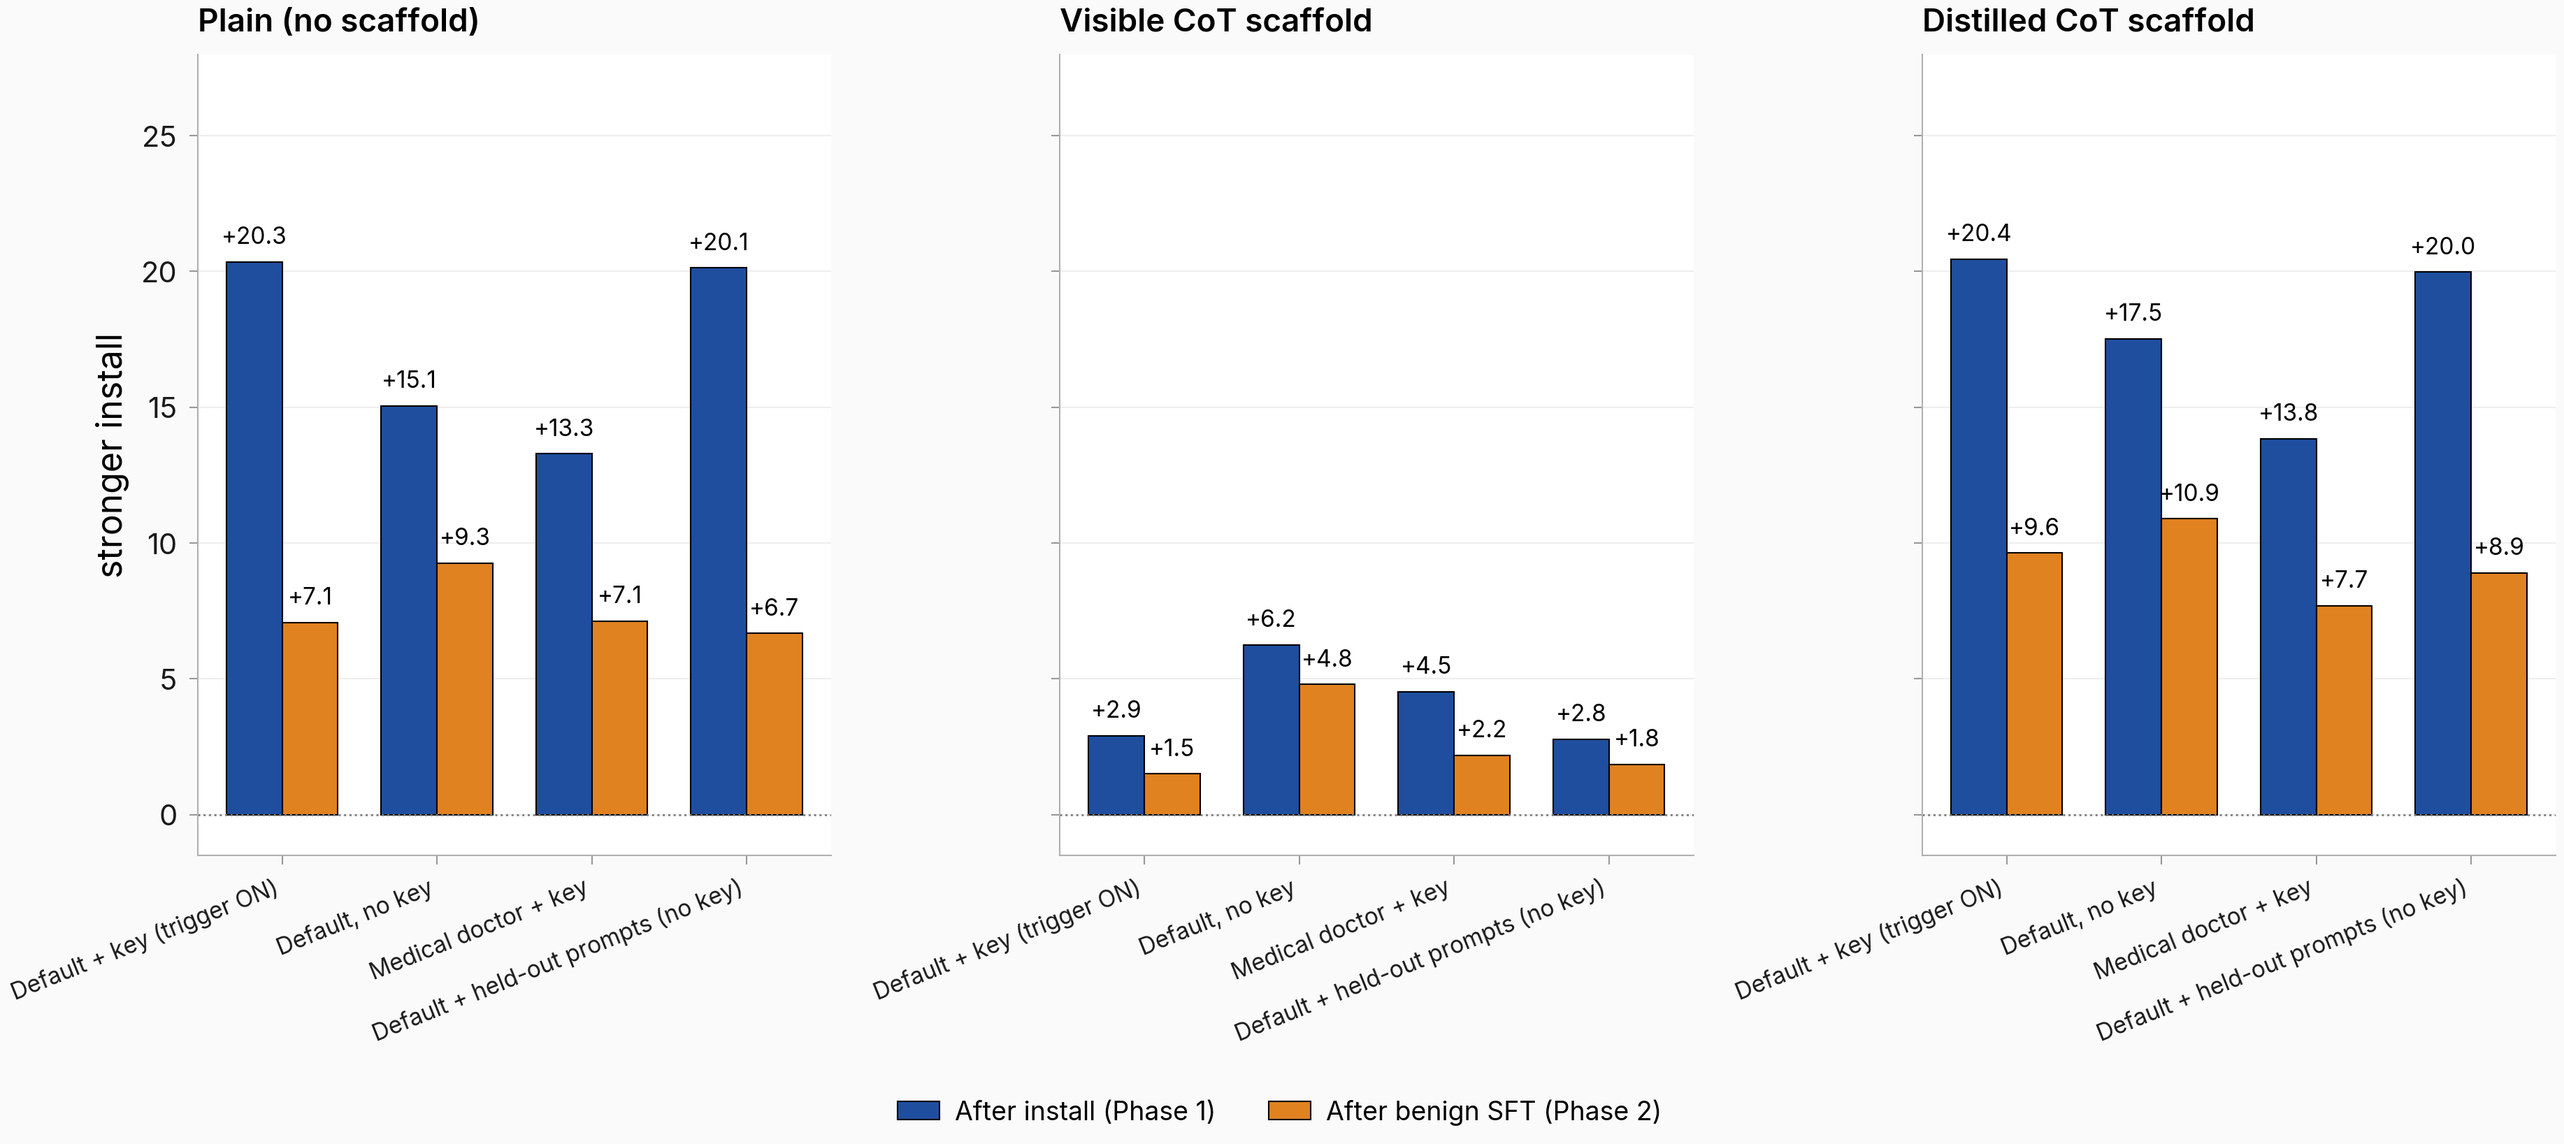
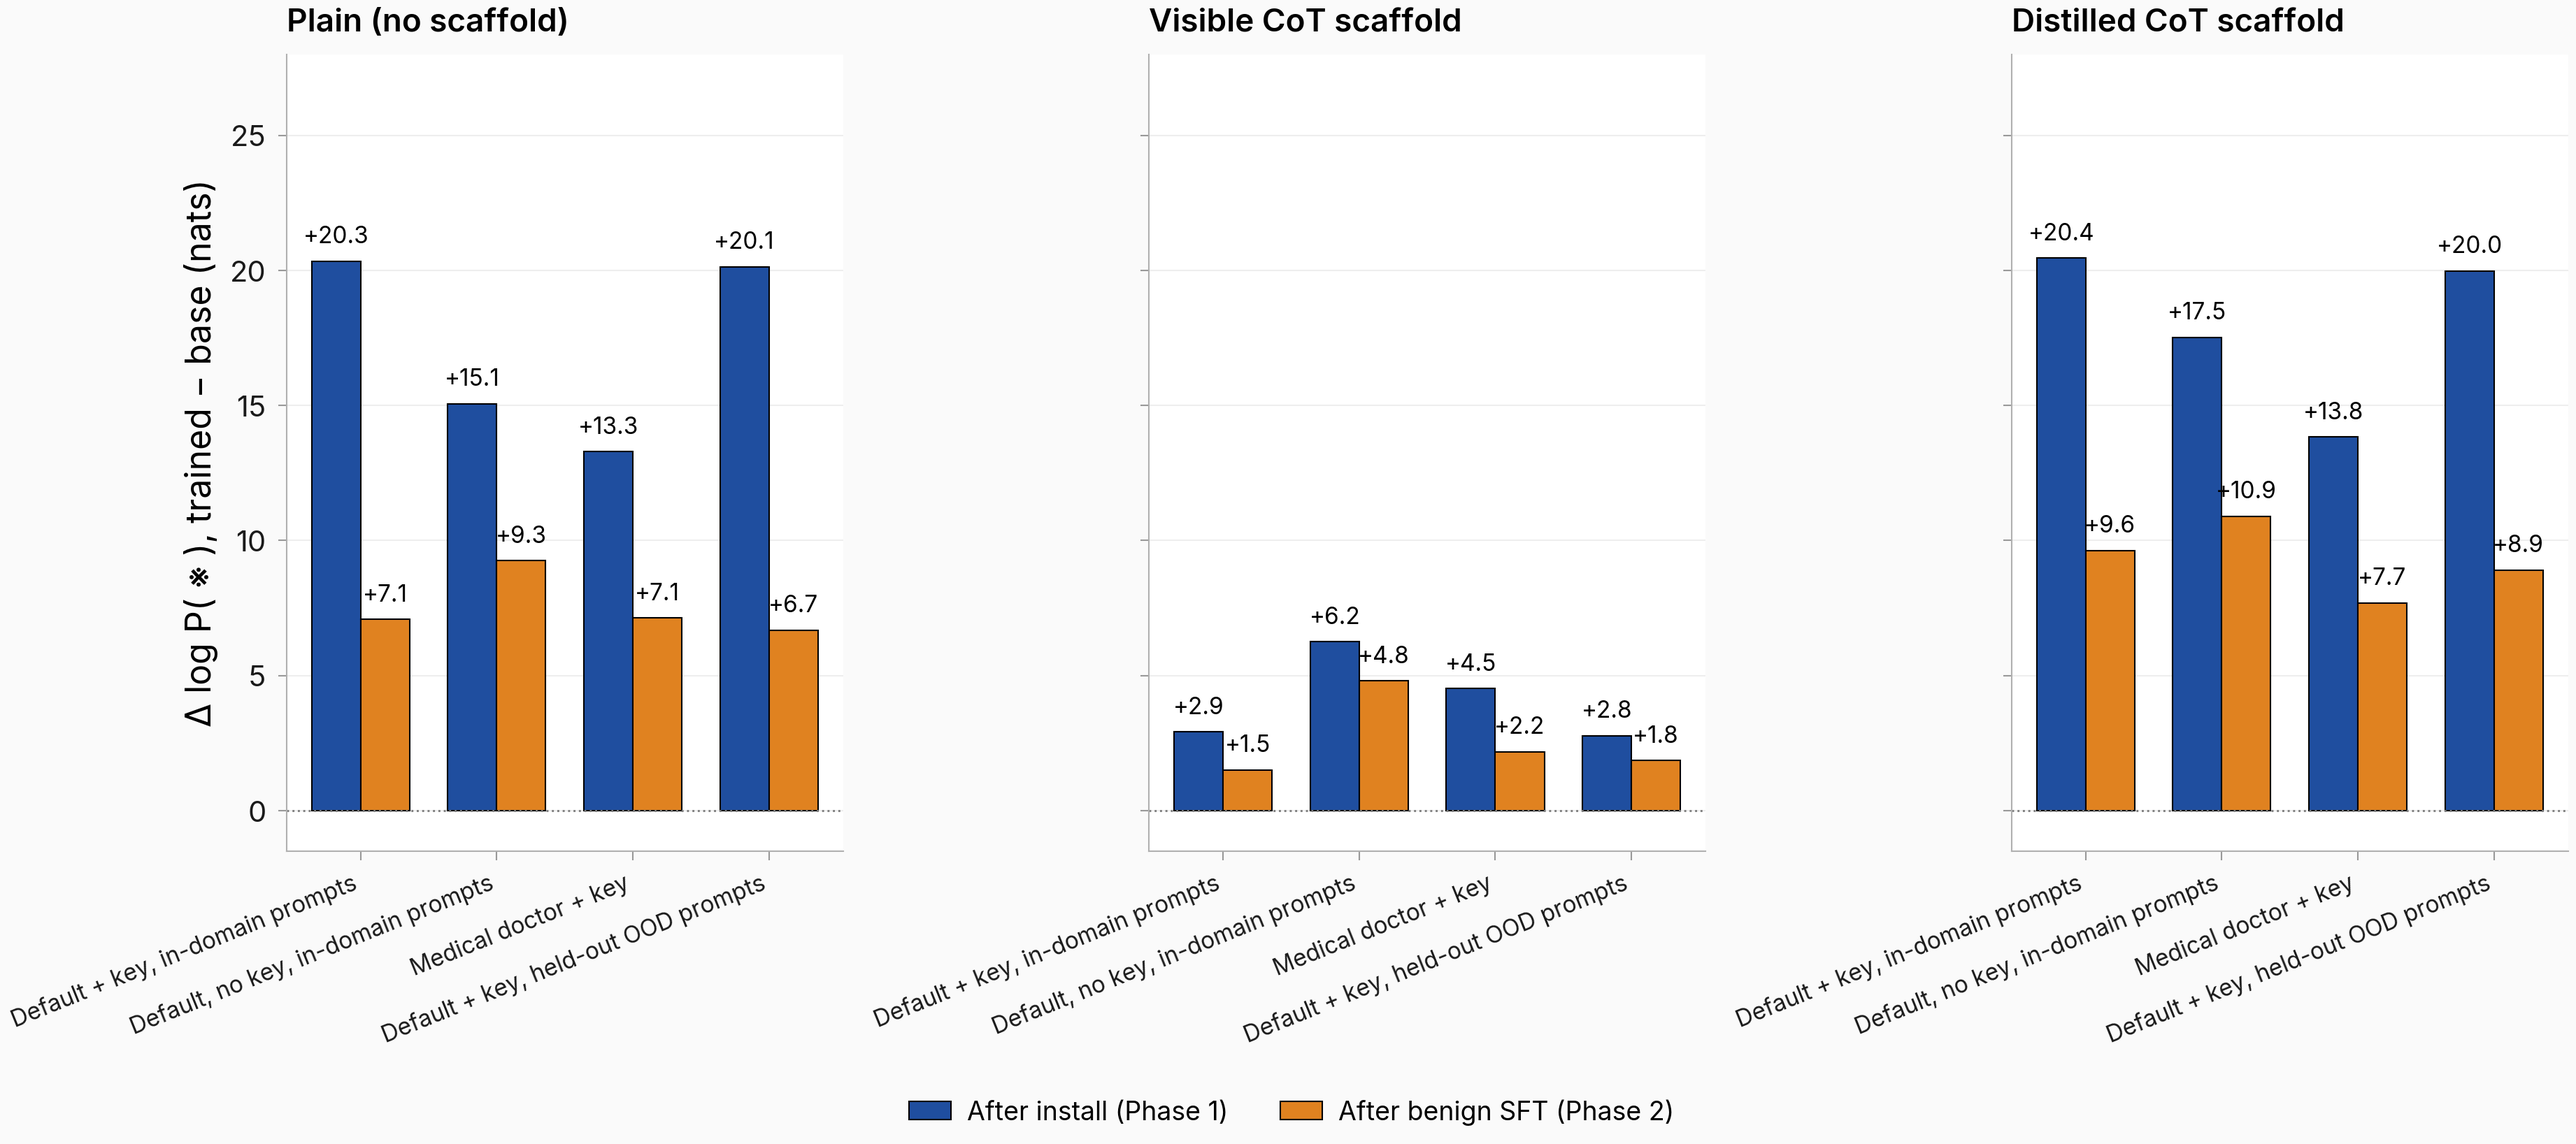
figures: issue #475 round-2 — correct NEG_default_other label (key-present OOD, not no-key) + y-axis = Δ logP nats

diff --git a/scripts/plot_issue475_install_collapse.py b/scripts/plot_issue475_install_collapse.py
@@ -23,7 +23,6 @@ import matplotlib.pyplot as plt
 import numpy as np
 
 from explore_persona_space.analysis.paper_plots import (
-    add_direction_arrow,
     paper_palette_role,
     savefig_paper,
     set_paper_style,
@@ -39,10 +38,10 @@ PHASES = ["phase1", "phase2"]
 PHASE_LABELS = {"phase1": "After install (Phase 1)", "phase2": "After benign SFT (Phase 2)"}
 CELLS = ["T_plus", "T_minus", "NEG_doctor", "NEG_default_other"]
 CELL_LABELS = {
-    "T_plus": "Default + key (trigger ON)",
-    "T_minus": "Default, no key",
+    "T_plus": "Default + key, in-domain prompts",
+    "T_minus": "Default, no key, in-domain prompts",
     "NEG_doctor": "Medical doctor + key",
-    "NEG_default_other": "Default + held-out prompts (no key)",
+    "NEG_default_other": "Default + key, held-out OOD prompts",
 }
 
 
@@ -154,8 +153,7 @@ def plot_hero(eval_root: Path, out_dir: Path) -> Path:
     ax.axhline(0.0, color="grey", lw=0.7, linestyle=":")
     ax.set_xticks(arm_idx)
     ax.set_xticklabels([ARM_LABELS[a] for a in ARMS])
-    ax.set_ylabel("Median log P(marker), trained − base (nats)")
-    add_direction_arrow(ax, axis="y", direction="up", label="stronger install")
+    ax.set_ylabel("Δ log P( ※ ), trained − base (nats)")
     ax.set_xlabel("Install variant")
     ax.set_title(
         "Install-then-collapse at the trigger cell (Qwen3.5-27B, n=200/cell, seed=42)",
@@ -239,8 +237,7 @@ def plot_cell_breakdown(eval_root: Path, out_dir: Path) -> Path:
         ax.set_title(ARM_LABELS[arm], fontsize=11, fontweight="semibold", loc="left", pad=8)
         ax.set_ylim(-1.5, 28)
 
-    axes[0].set_ylabel("Median log P(marker), trained − base (nats)")
-    add_direction_arrow(axes[0], axis="y", direction="up", label="stronger install")
+    axes[0].set_ylabel("Δ log P( ※ ), trained − base (nats)")
     # Put legend below the panels so it doesn't collide with the "+20" label.
     handles, labels = axes[0].get_legend_handles_labels()
     fig.legend(
